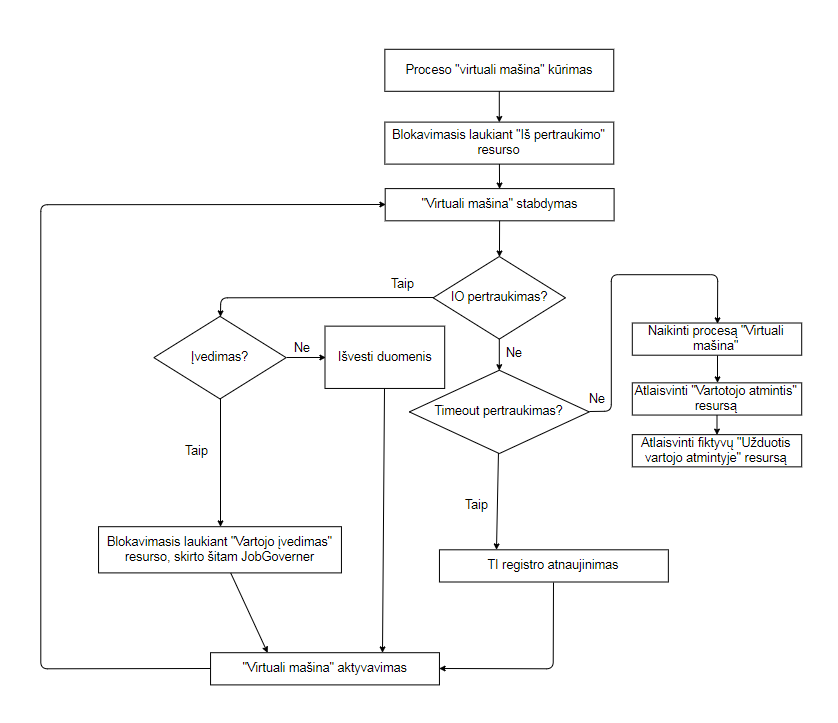
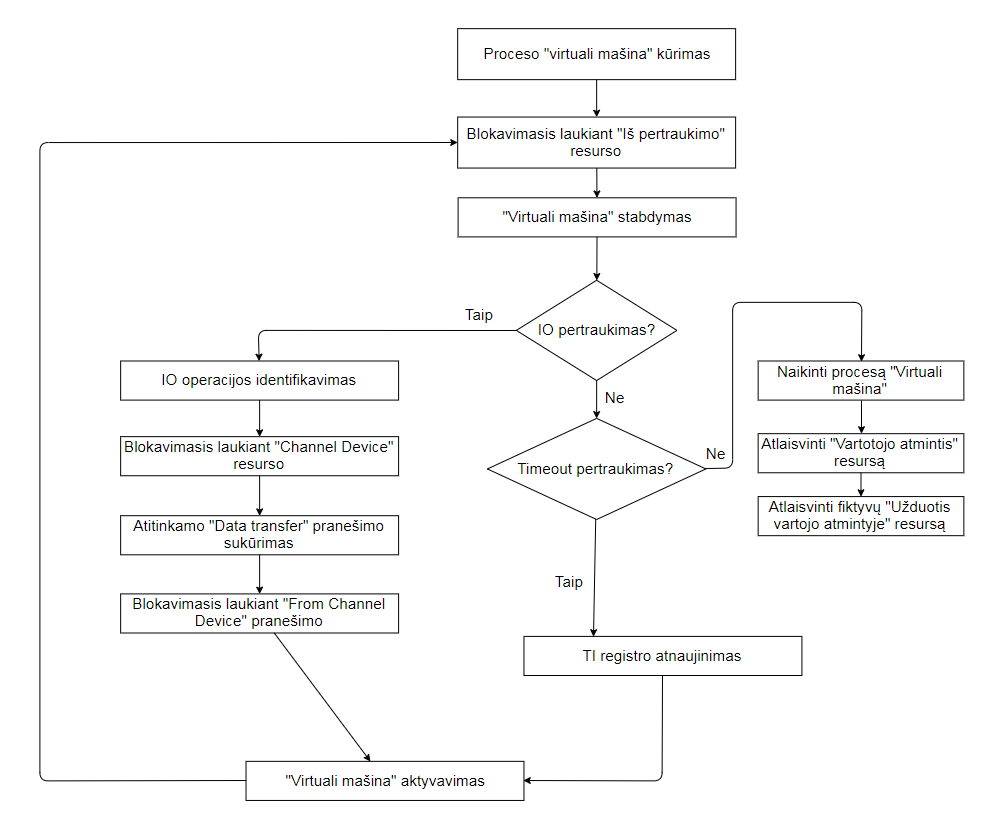
Finished with process schemes, added primitives

diff --git a/os_spec.tex b/os_spec.tex
@@ -69,7 +69,66 @@
     \end{titlepage}
 
     \section{Sistemos procesai}
-    Kokie procesai sudaro sistemą,
+      \subsection{Darbo su procesais primityvai}
+      \begin{itemize}
+        \item \textbf{KURTIP}
+          \par
+          Perduodami parametrai:
+          \begin{itemize}
+            \item Nuoroda į tėvinį procesą
+            \item Pradinė proceso būsena (realios mašinos registrų reikšmės ir t.t.)
+            \item Perduodamų elementų sąrašas (pvz. operatyvios atminties elementų sąrašas)
+            \item Išorinis vardas
+          \end{itemize}
+          Primityvo veiksmai:
+          \begin{itemize}
+            \item Sukurtas proceso deskriptorius įtraukiamas į bendrą procesų sąrašą
+            \item Deskriptorius įtraukiamas į tėvo sukurtų procesų sąrašą
+            \item Priskiriamas vidinis vardas
+            \item Sukuriamas naujo proceso vaikinių procesų sąrašas
+            \item Sukuriamas naujo procesų sukurtų resursų sąrašas
+            \item Procesas įtraukiamas į pasiruošusių procesų sąrašą
+          \end{itemize}
+
+        \item \textbf{NAIKINTIP}
+          \par
+          Perduodami parametrai:
+          \begin{itemize}
+            \item Proceso išorinis vardas
+          \end{itemize}
+          Primityvo veiksmai:
+          \begin{itemize}
+            \item Pašalinti procesą iš visų sąrašų, kuriuose jis yra
+            \item Naikinti visus proceso vaikus
+            \item Gražinti proceso turėtus pakartotinio panaudojimo resursus
+            \item Sunaikinti proceso sukurtus resursus
+            \item Naikinti proceso deskriptorių
+          \end{itemize}
+
+        \item \textbf{STABDYTIP}
+          \par
+          Perduodami parametrai:
+          \begin{itemize}
+            \item Proceso išorinis vardas
+          \end{itemize}
+          Primityvo veiksmai:
+          \begin{itemize}
+            \item Proceso būsena pakeičiama į blokuotą sustabdytą arba į pasiruošusią sustabdytą
+            \item Jei sustabdytas procesas buvo einamasis, kviečiamas planuotojas
+          \end{itemize}
+
+        \item \textbf{AKTYVUOTIP}
+          \par
+          Perduodami parametrai:
+          \begin{itemize}
+            \item Proceso išorinis vardas
+          \end{itemize}
+          Primityvo veiksmai:
+          \begin{itemize}
+            \item Proceso būsena pakeičiama į pasiruošęs arba blokuotas
+            \item Jeigu naujo proceso būsena yra pasiruošęs, kviečiamas planuotojas
+          \end{itemize}
+      \end{itemize}
       \subsection{Procesų būsenos}
         Procesas visą savo gyvavimo laikotarpį būtinai yra vienoje iš išvardintų būsenų:
           \begin{itemize}
@@ -97,39 +156,51 @@
         \includegraphics[scale=0.65]{Process_creation}
       \end{center}
       \subsection{Vartotojo programos patekimas į sistemą}
-      \begin{center}
-        \includegraphics[scale=1]{Program_load}
-      \end{center}
-      Kol vartotojo programa iš baitų išorinėje atmintyje tampa procesų operacinėje sistemoje, jai tenka pereiti kelis etapus. Visų pirma yra kviečiamas procesas Loader, kuris iš išorinės atminties perskaito užduoties programą, kurią konvertuoja į procesoriui suprantamą formatą ir siunčia pranešimą procesui Main, kuris sukuria po naują JobGoverner procesą kiekvienai vartojo užduočiai. Galiausiai JobGoverner sukuria VirtualMachine procesą, kuris jau gali vykdyti vartojo programą.
+        Kol vartotojo programa iš baitų išorinėje atmintyje tampa procesų operacinėje sistemoje, jai tenka pereiti kelis etapus. Visų pirma yra kviečiamas procesas Loader, kuris iš išorinės atminties perskaito užduoties programą, kurią konvertuoja į procesoriui suprantamą formatą ir siunčia pranešimą procesui Main, kuris sukuria po naują JobGoverner procesą kiekvienai vartojo užduočiai. Galiausiai JobGoverner sukuria VirtualMachine procesą, kuris jau gali vykdyti vartojo programą.
+        \begin{center}
+          \includegraphics[scale=1]{Program_load}
+        \end{center}
 
       \subsection{Procesų veikimas}
-      \subsubsection{StartStop}
-        \begin{center}
-          \includegraphics[scale=1]{StartStop}
-        \end{center}
+        \subsubsection{StartStop}
+          StartStop yra pirmas procesas, kuris atsiranda sistemoje, vos tik ją paleidus. Jo paskirtis yra sukurti visus kitus sisteminius procesus bei resursus kurie leistų vykdyti operacinės sistemos darbą. Atlikęs savo užduotį StartStop procesas užsiblokuoja laukdamas "OS pabaiga" resurso, kuris bus atlaisvintas tik tada, kai operacinė sistema norės pabaigti savo darbą, taigi, beveik visą OS veikimo trukmę, procesas StartStop bus užsiblokavęs. Kai galiausiai jis atsiblokuos sulaukęs "OS pabaiga" resurso, jis sunaikins savo sukurtus sisteminius procesus bei resursus ir operacinės sistemos darbas bus baigtas.
+          \begin{center}
+            \includegraphics[scale=1]{StartStop}
+          \end{center}
+
       \subsubsection{Loader}
+        Procesas Loader yra svarbiausias procesas vartojo užduoties patekimo į operacinę sistemą schemoje. Jis pradeda savo darbą laukdamas "Iš vartotojo sąsajos" resurso, kuris bus atlaisvintas tuomet, kai operacinės sistemos vartotojas nurodys, kurią programą jis nori įvykdyti. Tuomet bus atlaisvintas Loader procesui reikalingas resursas ir vartotojo programa bus nuskaityta iš išorinės atminties. Analizuodamas nuskaitytus duomenis, procesas Loader priima sprendimą, kiek vartotojo atminties resursų reikės ir blokuojasi laukdamas, kol resursai bus gauti. Gavęs vartotojo atminties resursą, Loader perkels vartojo programą į nurodytą atminties vietą ir pasiųs pranešimą procesui Main.
         \begin{center}
           \includegraphics[scale=1]{Loader}
         \end{center}
       \subsubsection{Main}
+        Procesas Main darbą pradeda užsiblokavęs ir laukdamas, kol gaus pranešimą iš "Užduotis vartotojo atmintyje". Šį pranešimą procesas Main gali gauti dviem atvejais:
+        \begin{enumerate}
+          \item Iš proceso loader. Tai reiškia, kad sistemai buvo užduota įvykdyti naują vartotojo programą. Šiuo atveju reikia sukurti naują JobGoverner procesą ir blokuotis laukiant kito "Užduotis vartotojo atmintyje" pranešimo.
+          \item Iš proceso JobGoverner. Šis pranešimas turėtų būti fiktyvus ir reikšti, kad VirtualMachine procesas, už kurį buvo atsakingas resursą atlaisvinęs JobGoverner procesas, baigė savo darbą ir JobGoverner turi būti sunaikintas.
+        \end{enumerate}
         \begin{center}
           \includegraphics[scale=0.65]{Main}
         \end{center}
       \subsubsection{Interrupt}
+        Procesas Interrupt pradeda darbą laukdamas "Pertraukimas" resurso. Šis resursas atlaisvinamas kai VirtualMachine, vykdydamas vartojo programa susiduria su situacija, kurios pats negali apdoroti. Tuomet Interrupt procesas nustato, kokia situacija kilo vykstant VirtualMachine procesui, suranda kuris JobGoverner procesas yra atsakingas už VirtualMachine, kuriame kilo pertraukimas ir būtent tam JobGoverner procesui perduoda "Iš pertraukimo" pranešimą. Taigi, šio proceso paskirtis, leistis VirtualMachine procesui bendrauti su JobGoverner procesu.
         \begin{center}
           \includegraphics[scale=1]{Interrupt}
         \end{center}
       \subsubsection{ChannelDevice}
+        ChannelDevice procesas leidžia kitiems procesams apsikeisti duomenimis tarp įrenginių ir realios mašinos atminties. Kadangi realios mašinos kanalų įrenginys vienu metu gali atlikti vieną duomenų pertraukimą, mes turime užtikrinti, kad proceso ChannelDevice vienu metu nenaudos keli procesai. Todėl ChannelDevice pradeda darbą atlaisvindamas "Channel Device" resursą ir laukdamas, kol gaus "Data Transfer" pranešimą. Šį pranešimą kanalų įrenginiui turėtų atsiųsti procesas, kuris prieš tai blokavosi laukdamas "Channel Device" resurso ir jį gavęs pasiuntė "Data Transfer pranešimą". Su "Data Transfer" pranešimu ChannelDevice procesas gauna visą reikalingą informaciją, kad galėtų atlikti duomenų persiuntimą per kanalų įrenginį. Tada nurodo kanalų įrenginiui ką daryti ir pabaigęs savo darbą atlaisviną "From Channel Device" pranešimą, kurio turėtų laukti duomenų perdavimą iniciavęs procesas.
         \begin{center}
           \includegraphics[scale=1]{ChannelDevice}
         \end{center}
 
       \subsubsection{JobGoverner}
+        JobGoverner procesas yra atsakingas už VirtualMachine proceso sukūrimą ir aptarnavimą. Sukūręs VirtaulMachine procesą, JobGoverner užsiblokuoja ir lauki, kol sukurtajama VirtualMachine procese kils pertraukimas ir bus atlaisvintas "Iš pertraukimo" resursas (jį atlasvina procesas Interrupt). Gavęs šį resursą JobGoverner sustabdo VirtualMachine proceso veikimą ir pradeda pertraukimo analizę. Visų pirma yra patikrinama, ar pertraukimas buvo įvedimo išvedimo, jeigu taip, tai nustatoma, kokia konkrečiai įvedimo/išvedimo operacija buvo vykdoma ir per kanalų įrenginį atliekamas duomenų perdavimas. Jeigu vis dėlto pertraukimas nebuvo įvedimo/išvedimo, tuomet gali būti, kad virtualioje mašinoje TI registras pasiekė nulinę reikšmę. Tokiu atveju TI registras atnaujinamas ir VirtualMachine procesas vėl iš naujo konkuruoja su kitais procesais dėl procesoriaus. Tačiau, jeigu tai nebuvo nei įvedimo/išvedimo nei timeout pertraukimas, reiškia, kad virtualioje mašinoje įvyko kažkokia klaida ir jos darbas turi būti baigtas. O kadangi JobGoverner yra atsakingas už mašinos prižiūrėjimą, tai šis procesas daugiau nebeturi prasmės egzistuoti, todėl siunčia fiktyvų pranešimą procesui Main, kuris gali sunaikinti JobGoverner.
         \begin{center}
           \includegraphics[width=\textwidth]{JobGoverner}
         \end{center}
 
       \subsubsection{VirtualMachine}
+        Šis procesas yra skirtas vartotojo programos vykdymui.
         \begin{center}
           \includegraphics[scale=1]{VirtualMachine}
         \end{center}
@@ -140,8 +211,72 @@
     \section{Procesų veikimas}
     Kaip veikia procesai
     \section{Resursai}
-    Aprašyti, kokius resursus kuria ir kokių laukia procesai
+      Sistemoje turime dviejų tipų resursus:
+      \begin{enumerate}
+        \item Statiniai - atmintis, procesorius bei kiti, kurie gyvuoja visą sistemos darbo laiką
+        \item Dinaminiai - resursai, kuriuos kuria procesai savo darbo eigoje. Tokie resursai gali būti naudojami kaip pranešimai apie kažkokius sistemoje vykstančius įvykius.
+      \end{enumerate}
+      Darbui su resursais sistemoje yra naudojami tokie primityvai:
+      \begin{itemize}
+        \item \textbf{KURTIR}
+          \par
+          Perduodami parametrai:
+          \begin{itemize}
+            \item Nuoroda į resursą sukurusį procesą
+            \item Resurso išorinis vardas
+          \end{itemize}
+          Primityvo veiksmai:
+          \begin{itemize}
+            \item Pridedamas prie bendro resursų sąrašo
+            \item Pridedamas prie tėvo sukurtų resursų sąrašo
+            \item Prisikiramas unikalus vidinis vardas
+            \item Sukuriamas resurso elementų sąrašas
+            \item Sukuriamas Laukiančių procesų sąrašas
+          \end{itemize}
+
+        \item \textbf{NAIKINTIR}
+          \par
+          Perduodami parametrai:
+          \begin{itemize}
+            \item Resurso išorinis vardas
+          \end{itemize}
+          Primityvo veiksmai:
+          \begin{itemize}
+            \item Resurso deskriptorius išmetamas iš tėvo sukurtų resursų sąrašo
+            \item Naikinamas resurso elementų sąrašas
+            \item Atblokuojami visi resurso laukiantys procesai
+            \item Resursas išmetamas iš bendro resursų sąrašo
+            \item Naikinamas resurso deskriptorius
+          \end{itemize}
+
+        \item \textbf{PRAŠYTIR}
+          \par
+          Perduodami parametrai:
+          \begin{itemize}
+            \item Resurso išorinis vardas
+            \item Kokios resurso dalies prašoma
+          \end{itemize}
+          Primityvo veiksmai:
+          \begin{itemize}
+            \item Iškvietęs procesas užblokuojamas ir įtraukiamas į resurso laukiančių procesų sąrašą
+            \item Kviečiamas resursų paskirstytojas
+          \end{itemize}
+
+        \item \textbf{ATLAISVINTIR}
+          \par
+          Perduodami parametrai:
+          \begin{itemize}
+            \item Resurso išorinis vardas
+            \item Atlaisvinamas resurso elementas
+          \end{itemize}
+          Primityvo veiksmai:
+          \begin{itemize}
+            \item Resurso elementas pridedamas prie resurso elementų sąrašo
+            \item Kviečiamas resursų paskirstytojas
+          \end{itemize}
+      \end{itemize}
       \subsection{Resursų paskirstytojas}
+        Resursų paskirstytojo užduotis - tikrinti konkretau resurso laukiančių procesų sąrašą ir esant galimybei perduoti resursą laukiančiam procesui ir pažymėti jį kaip pasiruošusį (arba pasiruošusį sustabdytą, jeigu pereinama iš būsenos blokuotas sustabdytas).
         \subsubsection{Planuotojas}
         Procesorius iš esmės yra vienas iš sistemos resursų, tačiau, šio resurso svarba sistemoje yra milžiniška, todėl procesorius turi savo atskirą resursų paskirstytoją - planuotoją.
         \par
@@ -157,9 +292,6 @@
           \item Užkraunama naujo einamojo proceso aplinka
           \item Naujas einamasis procesas pažymimas kaip einamasis
         \end{enumerate}
-
-    \section{Realios mašinos įrenginių valdymas}
-    Aprašyti, kaip OS valdo realios mašinos įrenginius ir kada tai vyksta
         \begin{thebibliography}{999}
             \bibitem{}
                 Giedrius Šiaulys,
